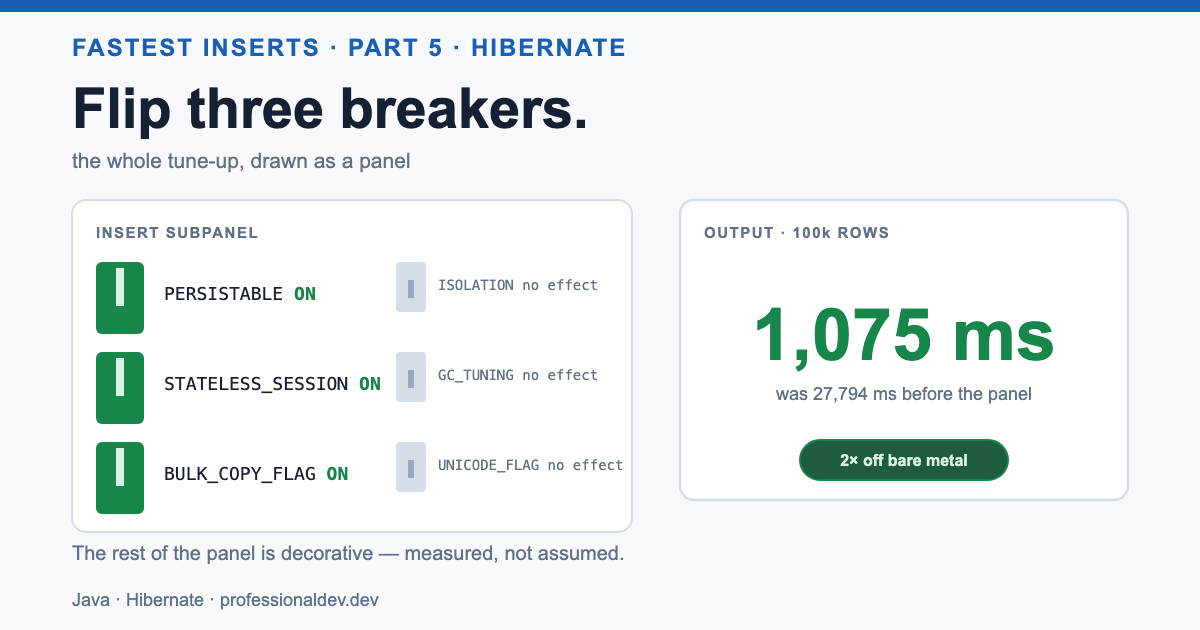
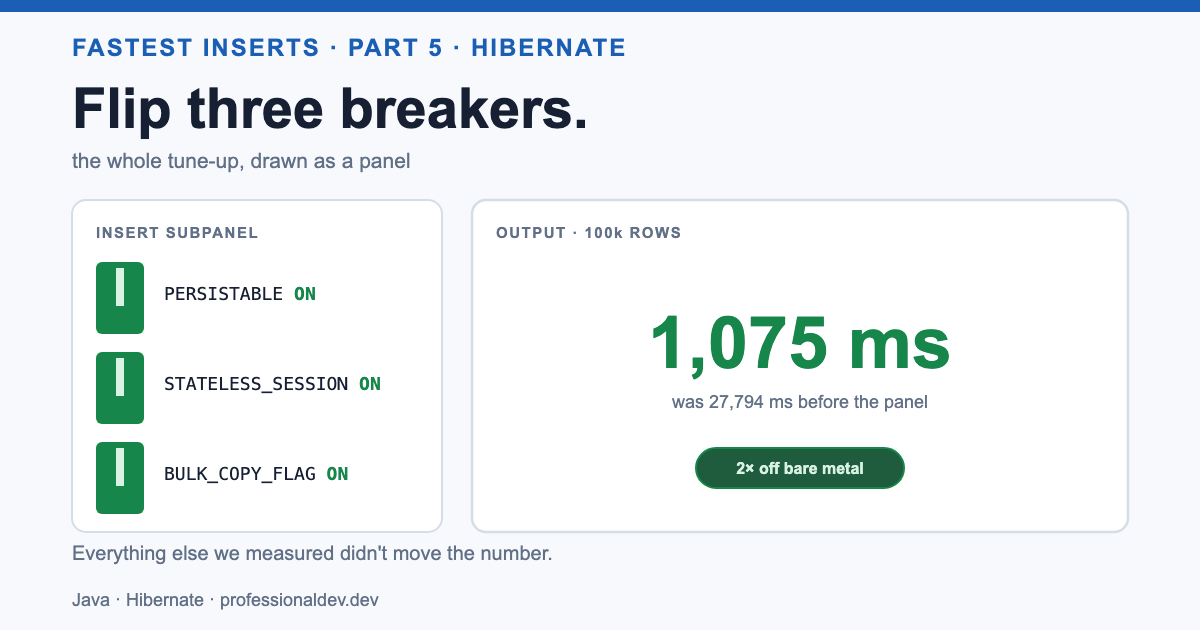
Revise Part 5: fix Persistable isNew() guidance, add ToC, simplify hero

diff --git a/content/post/java/mssqlserver/fast_insert_part5/index.md b/content/post/java/mssqlserver/fast_insert_part5/index.md
@@ -5,12 +5,13 @@ draft: false
 usePageBundles: true
 description: "Persistable, StatelessSession and useBulkCopyForBatchInsert close 80% of the gap between Hibernate and raw JDBC. Measured on 100,000 SQL Server inserts."
 featureImage: 'fast-insert-part5-hero.svg' # Breaker-panel card: three breakers ON (Persistable, StatelessSession, bulkCopy) — 1,075 ms.
-featureImageAlt: 'Breaker-panel card for Hibernate inserts: PERSISTABLE, STATELESS_SESSION and BULK_COPY_FLAG switched ON while ISOLATION, GC_TUNING and UNICODE_FLAG show "no effect" — output meter reads 1,075 ms, down from 27,794 ms.'
+featureImageAlt: 'Breaker-panel card for Hibernate inserts: PERSISTABLE, STATELESS_SESSION and BULK_COPY_FLAG switched ON — output meter reads 1,075 ms, down from 27,794 ms.'
 shareImage: 'share-part5-v2.png' # Branded 1200x630 PNG for social crawlers.
 tags: [ "java", "ms sql server", "hibernate" ]
 categories: [ "java", "sql" ]
 series: [ "Fastest Way to Insert Data in MS SQL" ]
 seriesWeight: 5
+toc: true
 sourceCode: 'https://github.com/mmarko88/blog-examples/tree/main/fastest-insert/part5-hibernate-tuning'
 ---
 
@@ -24,6 +25,10 @@ further. But Hibernate still sits well behind — so how close can it actually g
 layer `useBulkCopyForBatchInsert=true` on top (another 2–2.5x). Combined with proper batch sizing,
 this is as fast as Hibernate gets.
 
+*Setup: 100,000 `Person` rows per test, 10 runs each (median of 10 runs). Same rig as
+[Part 2](/post/java/mssqlserver/fast_insert_part2/) — code in the
+[example repo](https://github.com/mmarko88/blog-examples/tree/main/fastest-insert/part5-hibernate-tuning).*
+
 ## The saveAll Problem: SELECT Before INSERT
 
 When you call `repository.saveAll(entities)`, Spring Data JPA checks each entity's ID. If the ID is
@@ -32,10 +37,11 @@ a `SELECT` before the `INSERT`. For 100,000 entities, that's 100,000 extra SELEC
 
 ### Fix: Implement Persistable
 
-The fix is simple: make your entity implement `Persistable<T>` and always return `true` from
-`isNew()`:
+The fix is simple: make your entity implement `Persistable<T>` and track `isNew()` yourself —
+`true` only until the entity is first persisted or loaded:
 
 ```java
+// imports omitted
 @Entity
 @Table(name = "person")
 public class PersistablePerson implements Persistable<Integer> {
@@ -67,14 +73,15 @@ saved or loaded from the database.
 
 ### Results
 
-| Strategy | 100k persons (avg ms) |
+| Strategy | 100k persons (median ms) |
 |----------|----------------------|
 | saveAll (original, Part 1) | 27,794 |
 | **saveAll + Persistable** | **3,426** |
-| persist in chunks (Part 1) | 4,048 |
 
-**Persistable makes saveAll 8x faster** — and now slightly faster than manual persist-in-chunks!
-The SELECT elimination is the single biggest win.
+**Persistable makes saveAll 8x faster.** The SELECT elimination is the single biggest win —
+`saveAll` now delegates straight to `persist()`.
+
+{{< quiz question="Why does saveAll() fire a SELECT before each INSERT?" options="Spring Data can't tell the entity is new — merge() SELECTs first|Hibernate validates the row before writing|saveAll prefetches rows for optimistic locking|The JDBC driver caches each row" correct="0" explanation="With a non-null assigned ID the entity isn't 'new', so saveAll delegates to merge() — which SELECTs to decide INSERT vs UPDATE. Persistable.isNew() = true routes to persist() instead." >}}
 
 ## StatelessSession: Bare-Metal Hibernate
 
@@ -85,6 +92,7 @@ Hibernate's `StatelessSession` is designed for bulk operations. It bypasses:
 - **Cascading** — related entities must be inserted explicitly
 
 ```java
+// imports omitted
 @Repository
 public class StatelessSessionInsertRepository {
     private final EntityManagerFactory entityManagerFactory;
@@ -108,7 +116,7 @@ public class StatelessSessionInsertRepository {
 
 ### Results
 
-| Strategy | 100k persons (avg ms) |
+| Strategy | 100k persons (median ms) |
 |----------|----------------------|
 | Hibernate persist (Part 1) | 4,048 |
 | **StatelessSession** | **2,650** |
@@ -117,6 +125,8 @@ public class StatelessSessionInsertRepository {
 
 **StatelessSession is 35% faster than regular Hibernate persist** and within striking distance of
 raw JDBC. The remaining gap (~10%) is Hibernate's SQL generation and parameter binding overhead.
+
+{{< quiz question="What does StatelessSession drop vs a regular Session?" options="First-level cache|Dirty checking at flush|Automatic cascading|JDBC batching" correct="0,1,2" multi="true" explanation="StatelessSession skips the L1 cache, dirty checking and cascading — that's where the 35% comes from. JDBC batching still works underneath." >}}
 
 ## The Killer Combo: StatelessSession + useBulkCopyForBatchInsert
 
@@ -135,26 +145,7 @@ batches to SQL Server's Bulk Copy protocol. It works with StatelessSession too:
 (492ms), while still using Hibernate's mapping metadata. For applications that need ORM convenience
 with near-JDBC performance, this is the sweet spot.
 
-## provider_disables_autocommit
-
-The `hibernate.connection.provider_disables_autocommit` setting tells Hibernate that the connection
-pool already disabled auto-commit, skipping the `setAutoCommit(false)` JDBC round-trip per
-transaction. To use it, you need both:
-
-```properties
-spring.jpa.properties.hibernate.connection.provider_disables_autocommit=true
-spring.datasource.hikari.auto-commit=false
-```
-
-| Strategy | Normal | +noAutoCommit | Speedup |
-|----------|--------|---------------|---------|
-| Hibernate persist | 4,048 | 4,094 | None |
-| Persistable saveAll | 3,426 | **2,956** | **14%** |
-
-**Verdict: negligible for persist, modest for saveAll.** The saved round-trip is only measurable
-when there are many small transactions (saveAll with frequent flushes) rather than one large batch
-(persist). Not worth the configuration complexity unless you have a very specific transactional
-pattern.
+{{< quiz question="Which Hibernate setup hits 1,075 ms on 100k inserts?" options="saveAll + Persistable|StatelessSession alone|StatelessSession + useBulkCopyForBatchInsert=true|StatelessSession + second-level cache" correct="2" explanation="The flag layers the bulk-copy path on StatelessSession's stripped-down persist path — 2.5x over StatelessSession alone, 2x off raw Bulk API." >}}
 
 ## Batch Size Sweet Spot
 
@@ -163,7 +154,7 @@ of 50) reveals the actual inflection points:
 
 ### Bulk API
 
-| Batch | Avg ms | | Batch | Avg ms |
+| Batch | Median ms | | Batch | Median ms |
 |-------|--------|---|-------|--------|
 | 50 | 4,565 | | 600 | **834** |
 | 100 | 3,119 | | 800 | 1,194 |
@@ -178,7 +169,7 @@ of 50) reveals the actual inflection points:
 
 ### JdbcTemplate
 
-| Batch | Avg ms | | Batch | Avg ms |
+| Batch | Median ms | | Batch | Median ms |
 |-------|--------|---|-------|--------|
 | 50 | 6,471 | | 600 | 2,989 |
 | 100 | 6,036 | | **700** | **2,847** |
@@ -188,13 +179,15 @@ of 50) reveals the actual inflection points:
 **JdbcTemplate:** optimal at 700, with minimal improvement past 500. Larger batches (1000+) don't
 help because the driver's TCP buffer and SQL Server's batch processing saturate around 500-800 rows.
 
+{{< quiz question="Safe default Bulk API batch size from the sweep?" options="100|500|1000|10000" correct="2" explanation="Returns diminish past ~500 with wide run-to-run noise — 1,000 is the safe default." >}}
+
 ## Multi-Value Sweet Spot
 
 [Part 3](/post/java/mssqlserver/fast_insert_part3/) showed that multi-value INSERT
 (`objectsPerInsert > 1`) is much faster than single-row inserts. But what's the optimal value?
 A fine-grained sweep reveals:
 
-| objectsPerInsert | Avg ms | vs single-row |
+| objectsPerInsert | Median ms | vs single-row |
 |-----------------|--------|---------------|
 | 1 | 3,984 | — |
 | 10 | 1,711 | 2.3x faster |
@@ -213,70 +206,7 @@ per-statement overhead without overwhelming the parser.
 Remember: SQL Server's maximum parameter count is 2,100. With 5 columns per row,
 `objectsPerInsert` cannot exceed 420 (2100/5 = 420).
 
-## Connection String: sendStringParametersAsUnicode
-
-Setting `sendStringParametersAsUnicode=false` in the JDBC URL tells the driver to send string
-parameters as VARCHAR instead of NVARCHAR. This can help when your table has VARCHAR columns
-(avoids implicit conversion), but **has no effect on NVARCHAR columns**:
-
-| Strategy | Unicode (default) | sendStringParametersAsUnicode=false |
-|----------|-------------------|-------------------------------------|
-| Bulk API | 691ms | 812ms (no improvement) |
-| JdbcTemplate | 3,699ms | 3,892ms (no improvement) |
-
-If your columns are NVARCHAR, skip this setting.
-
-## Transaction Patterns
-
-How you structure transactions matters more than how big they are:
-
-| Pattern | 100k rows (avg ms) | Notes |
-|---------|-------------------|-------|
-| One large transaction (commit at end) | 3,773 | Baseline |
-| Commit per batch (every 1000 rows) | 3,543 | Marginally faster |
-| Savepoints per batch | 3,949 | Slightly slower (overhead) |
-| Auto-commit per row (10k rows only) | 5,198 ms for **10k** rows (~52,000ms extrapolated) | **15x slower** |
-
-**Verdict:** auto-commit per row is catastrophic — each INSERT becomes its own transaction with
-its own log flush. Any explicit transaction (batched or whole-run) is dramatically faster. The
-difference between commit-per-batch and commit-at-end is noise.
-
-### Isolation Levels
-
-| Isolation | 100k rows (avg ms) |
-|-----------|-------------------|
-| READ_UNCOMMITTED | 3,189 |
-| READ_COMMITTED (default) | 3,037 |
-| SERIALIZABLE | 2,963 |
-
-**Isolation level has no measurable impact** on INSERT-only workloads. The isolation level
-primarily affects reads and locking behavior — there's nothing for an INSERT to "read dirtily"
-or "serialize against". Don't bother tuning isolation level for bulk-load performance.
-
-## GC and JVM Memory Tuning
-
-Does the Java garbage collector affect database insert throughput? We ran the same test with four
-GC/heap configurations:
-
-| GC | Heap | Bulk API (ms) | JdbcTemplate (ms) | Total GC pause |
-|----|------|---------------|-------------------|---------------|
-| G1 (default) | 512 MB | 687 | 3,194 | ~59-138 ms |
-| G1 | 4 GB | 762 | 3,095 | ~93-139 ms |
-| Parallel | 2 GB | 863 | 3,401 | ~21-59 ms |
-| ZGC | 4 GB | 867 | 3,291 | ~109-315 ms |
-
-**GC choice has essentially no impact** on insert performance for this workload. The reasons:
-
-1. **Short-lived objects fit in young generation** — `Person` instances die quickly after being
-   batched and sent to the driver. All GCs handle this well.
-2. **GC pauses are tiny** compared to database I/O (300ms of GC vs 30+ seconds of total time).
-3. **ZGC has slight overhead** — its concurrent collection isn't needed when heap pressure is low.
-
-**Takeaway:** stick with the default G1 and modest heap size (512 MB-1 GB is enough for 100k-row
-batches). Over-tuning the JVM for database workloads is a waste of time — the bottleneck is the
-network/disk, not Java.
-
-![Transaction & GC Tuning](transaction_gc.svg)
+{{< quiz question="Why can't objectsPerInsert exceed 420 for a 5-column row?" options="The driver's TCP buffer saturates|JDBC statements cap at 64 KB|Hibernate's batch counter overflows|SQL Server caps parameters at 2,100 (5 × 420)" correct="3" explanation="2,100 max bindings / 5 columns = 420. The parser slows down well before that anyway — the sweet spot is 100–200." >}}
 
 ## The one thing to remember
 
@@ -292,5 +222,7 @@ code change for a 10x result.
 
 {{< quiz question="Which Hibernate features help close the gap to raw JDBC?" options="StatelessSession|Implementing Persistable with isNew=true|useBulkCopyForBatchInsert=true|Second-level cache" correct="0,1,2" multi="true" explanation="StatelessSession, Persistable (isNew=true) and useBulkCopyForBatchInsert together close about 80% of the gap. The second-level cache is a read optimization and does not help inserts." >}}
 
+<!--
 Next: [Part 6 — Parallel Inserts](/post/java/mssqlserver/fast_insert_part6/) splits the data across
 multiple connections to see how far parallel threads can push it.
+-->
